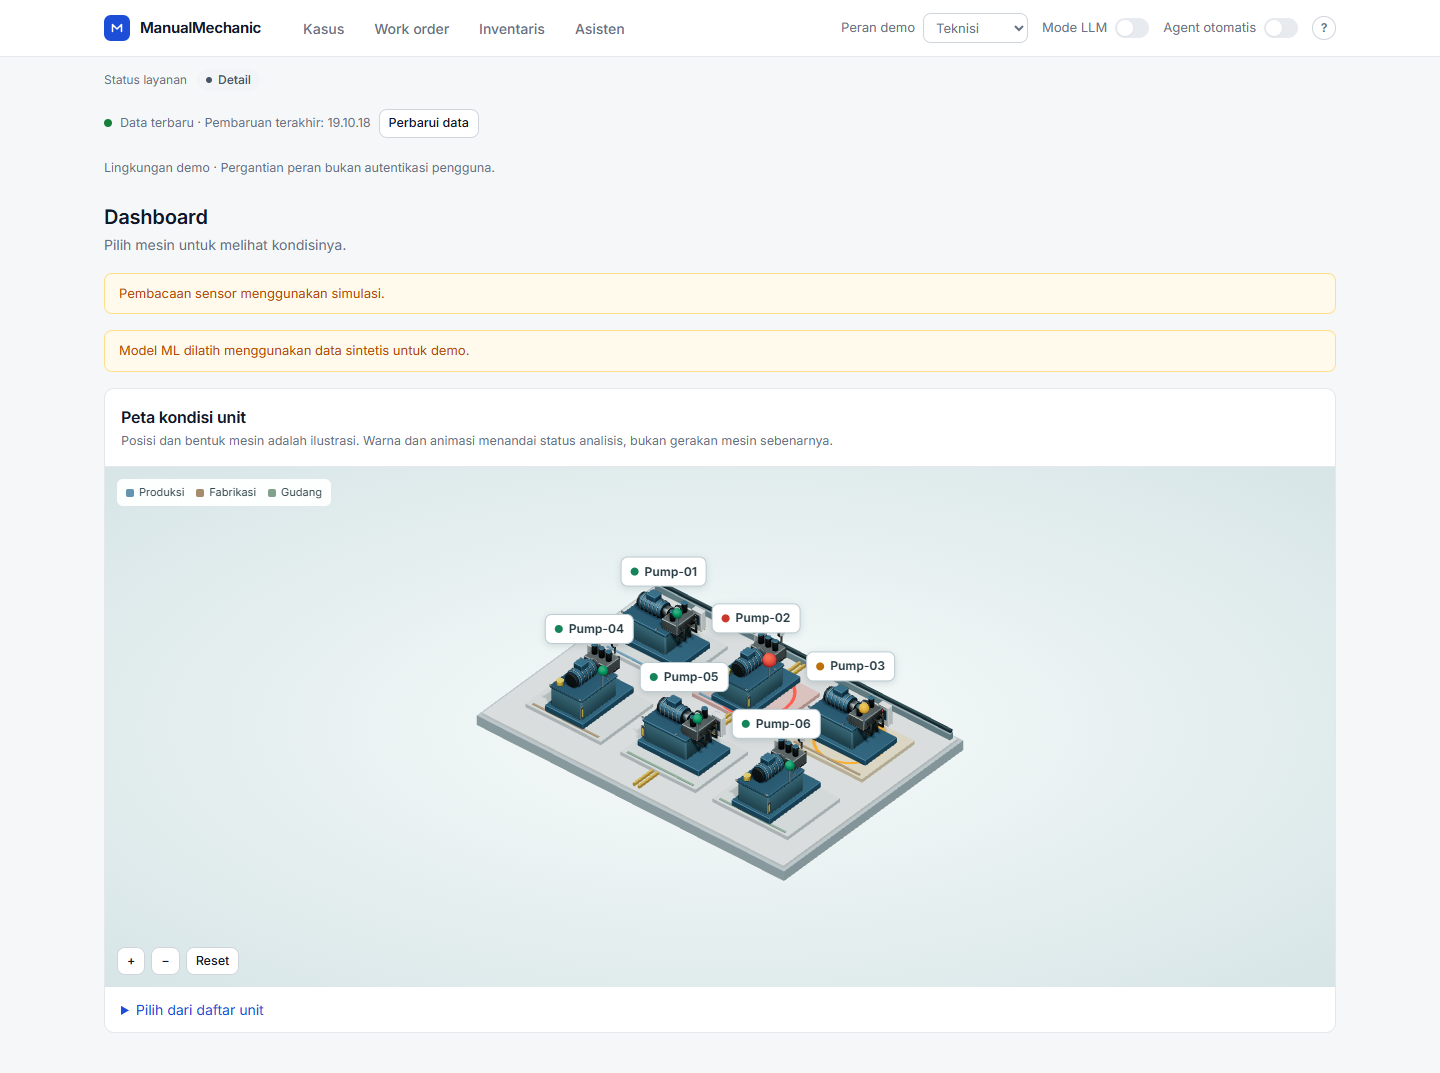
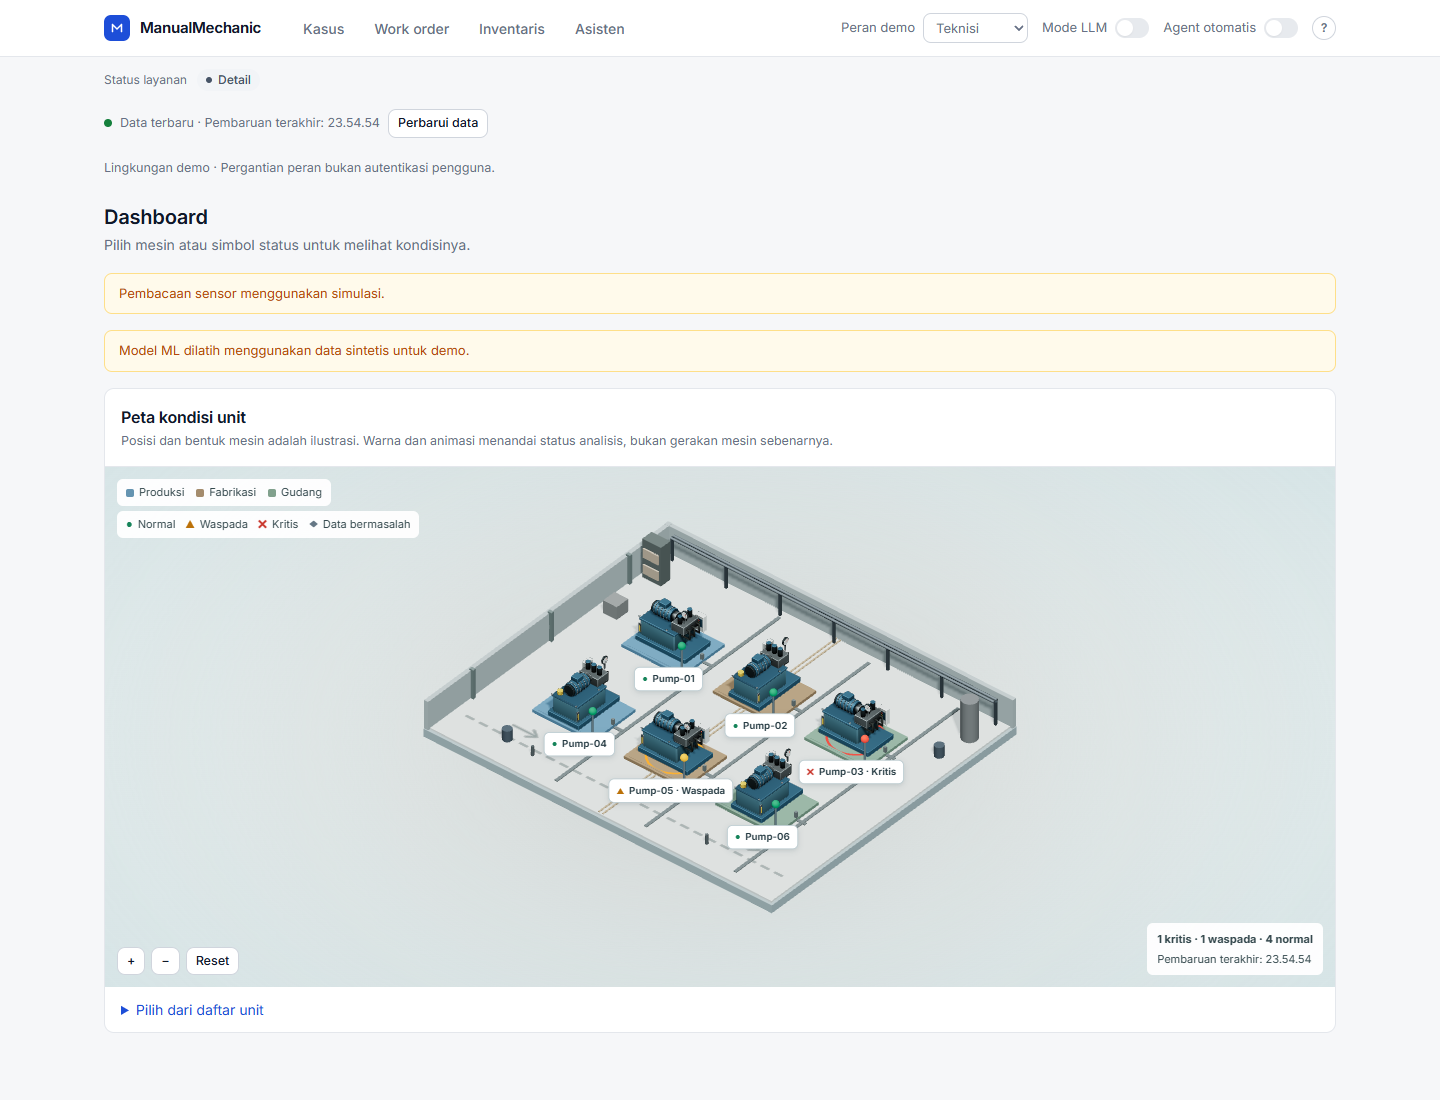
feat: polish 3d facility scene

diff --git a/frontend/src/components/FacilityScene.tsx b/frontend/src/components/FacilityScene.tsx
@@ -1,7 +1,7 @@
 import { Canvas, useFrame, useLoader, useThree } from '@react-three/fiber';
 import { ContactShadows, Environment, Html, Lightformer } from '@react-three/drei';
 import { useEffect, useLayoutEffect, useMemo, useRef, useState } from 'react';
-import { ACESFilmicToneMapping, Mesh, PCFSoftShadowMap, type MeshStandardMaterial } from 'three';
+import { ACESFilmicToneMapping, CanvasTexture, Mesh, PCFSoftShadowMap, type MeshStandardMaterial } from 'three';
 import { GLTFLoader } from 'three/examples/jsm/loaders/GLTFLoader.js';
 import { MeshoptDecoder } from 'three/examples/jsm/libs/meshopt_decoder.module.js';
 import type { Pump } from '../types';
@@ -81,6 +81,38 @@ function RefreshShadows({ layout }: { layout: string }) {
   return null;
 }
 
+function Apron({ size }: { size: number }) {
+  const alphaMap = useMemo(() => {
+    const canvas = document.createElement('canvas');
+    canvas.width = canvas.height = 256;
+    const ctx = canvas.getContext('2d');
+    if (ctx) {
+      const gradient = ctx.createRadialGradient(128, 128, 20, 128, 128, 128);
+      gradient.addColorStop(0, '#ffffff'); gradient.addColorStop(0.55, '#888888'); gradient.addColorStop(1, '#000000');
+      ctx.fillStyle = gradient; ctx.fillRect(0, 0, 256, 256);
+    }
+    return new CanvasTexture(canvas);
+  }, []);
+  useEffect(() => () => alphaMap.dispose(), [alphaMap]);
+  return <mesh rotation={[-Math.PI / 2, 0, 0]} position={[0, -0.34, 0]} receiveShadow><planeGeometry args={[size, size]} /><meshStandardMaterial color="#acaeaa" transparent opacity={0.55} alphaMap={alphaMap} depthWrite={false} roughness={1} /></mesh>;
+}
+
+function FloorMarkings({ width, depth }: { width: number; depth: number }) {
+  const map = useMemo(() => {
+    const canvas = document.createElement('canvas');
+    canvas.width = canvas.height = 512;
+    const ctx = canvas.getContext('2d');
+    if (ctx) {
+      ctx.strokeStyle = 'rgba(105, 119, 116, 0.65)'; ctx.lineWidth = 3;
+      ctx.setLineDash([12, 8]); ctx.beginPath(); ctx.moveTo(20, 460); ctx.lineTo(492, 460); ctx.stroke();
+      ctx.setLineDash([]); for (const x of [90, 422]) { ctx.beginPath(); ctx.moveTo(x - 18, 435); ctx.lineTo(x + 18, 435); ctx.moveTo(x + 7, 425); ctx.lineTo(x + 18, 435); ctx.lineTo(x + 7, 445); ctx.stroke(); }
+    }
+    return new CanvasTexture(canvas);
+  }, []);
+  useEffect(() => () => map.dispose(), [map]);
+  return <mesh rotation={[-Math.PI / 2, 0, 0]} position={[0, 0.043, 0]}><planeGeometry args={[width - 0.2, depth - 0.2]} /><meshBasicMaterial map={map} transparent depthWrite={false} /></mesh>;
+}
+
 function StatusRing({ state, selected, hovered, reducedMotion }: { state: Pump['status']['state']; selected: boolean; hovered: boolean; reducedMotion: boolean }) {
   const ring = useRef<Mesh>(null);
   const alert = state === 'waspada' || state === 'kritis';
@@ -99,7 +131,7 @@ function StatusRing({ state, selected, hovered, reducedMotion }: { state: Pump['
 
 function Machine({ pump, position, active, index, onSelect, reducedMotion }: { pump: Pump; position: [number, number]; active: boolean; index: number; onSelect: (id: string) => void; reducedMotion: boolean }) {
   const [hovered, setHovered] = useState(false);
-  const { gl } = useThree();
+  const { gl, size } = useThree();
   useEffect(() => () => { gl.domElement.style.cursor = ''; }, [gl]);
   return <group position={[position[0], 0, position[1]]} onClick={(event) => { event.stopPropagation(); onSelect(pump.id); }} onPointerOver={(event) => { event.stopPropagation(); setHovered(true); gl.domElement.style.cursor = 'pointer'; }} onPointerOut={() => { setHovered(false); gl.domElement.style.cursor = ''; }}>
     <mesh position={[0, 0.09, 0]} receiveShadow><boxGeometry args={[2.45, 0.12, 2.05]} /><meshStandardMaterial color={zoneColor(pump.location)} /></mesh>
@@ -109,7 +141,7 @@ function Machine({ pump, position, active, index, onSelect, reducedMotion }: { p
     <StatusRing state={pump.status.state} selected={active} hovered={hovered} reducedMotion={reducedMotion} />
     {active && <mesh position={[0, 0.16, 0]} rotation={[-Math.PI / 2, 0, 0]}><ringGeometry args={[1.02, 1.055, 48]} /><meshBasicMaterial color="#2365a5" /></mesh>}
     <mesh position={[1.02, 0.59, 0.80]}><cylinderGeometry args={[0.035, 0.035, 0.86, 8]} /><meshStandardMaterial color="#71858c" /></mesh>
-    <Html position={[0.8, 0.18, 1.25]} center zIndexRange={[5, 0]}><button type="button" className="unit-chip" data-status={pump.status.state} aria-pressed={active} aria-label={`${pump.id} · ${stateLabels[pump.status.state] ?? pump.status.state}`} onClick={(event) => { event.stopPropagation(); onSelect(pump.id); }}><span className="unit-chip-symbol" aria-hidden="true">{pump.status.state === 'normal' ? '●' : pump.status.state === 'waspada' ? '▲' : pump.status.state === 'kritis' ? '✖' : '◆'}</span><span className="unit-chip-id">{pump.id}</span></button></Html>
+    <Html position={[1.05, 0.18, 1.48]} center distanceFactor={size.width > 700 ? 0.025 : undefined} zIndexRange={[5, 0]}><button type="button" className="unit-chip" data-status={pump.status.state} aria-pressed={active} aria-label={`${pump.id} · ${stateLabels[pump.status.state] ?? pump.status.state}`} onClick={(event) => { event.stopPropagation(); onSelect(pump.id); }}><span className="unit-chip-symbol" aria-hidden="true">{pump.status.state === 'normal' ? '●' : pump.status.state === 'waspada' ? '▲' : pump.status.state === 'kritis' ? '✖' : '◆'}</span><span className="unit-chip-id">{pump.id}{pump.status.state !== 'normal' && <span className="unit-chip-status"> · {pump.status.state === 'sensor' ? 'Sensor' : pump.status.state === 'ml_error' ? 'ML error' : pump.status.state === 'tidak ada data' ? 'Tanpa data' : stateLabels[pump.status.state]}</span>}</span></button></Html>
   </group>;
 }
 
@@ -119,15 +151,15 @@ export default function FacilityScene({ pumps, selected, onSelect, zoom, reduced
   const position = (index: number): [number, number] => {
     const location = (pumps[index].location ?? '').toLowerCase();
     const offset = location.includes('produksi') ? -0.08 : location.includes('gudang') ? 0.08 : 0;
-    return [(index % columns - (columns - 1) / 2) * 3.6 + offset, (Math.floor(index / columns) - (rows - 1) / 2) * 3.6];
+    return [(index % columns - (columns - 1) / 2) * 3.6 + offset, (Math.floor(index / columns) - (rows - 1) / 2) * 4.3];
   };
   const selectedIndex = pumps.findIndex((pump) => pump.id === selected);
   const focus = selectedIndex < 0 ? [0, 0] as [number, number] : position(selectedIndex);
   const animated = !reducedMotion && pumps.some((pump) => pump.status.state === 'kritis' || pump.status.state === 'waspada');
   const layout = JSON.stringify(pumps.map((pump) => [pump.id, pump.location]));
   const slabW = columns * 3.6 + 3.2;
-  const slabD = rows * 3.6 + 3.2;
-  const padRects = pumps.map((_, index) => { const [x, z] = position(index); return { x, z: z + 0.3, w: 2.9, d: 3.1 }; });
+  const slabD = rows * 4.3 + 3.2;
+  const padRects = pumps.map((_, index) => { const [x, z] = position(index); return { x: x + 0.2, z: z + 0.45, w: 3.3, d: 3.5 }; });
   const keepOut = [...padRects, { x: 0, z: 0, w: 0.8, d: slabD }, { x: 0, z: -slabD / 2 + 0.35, w: slabW, d: 0.7 }];
   return <Canvas orthographic frameloop={animated ? 'always' : 'demand'} dpr={[1, 1.5]} shadows={{ type: PCFSoftShadowMap }} camera={{ position: [10, 12, 12], zoom: 50, near: 0.1, far: 100 }} gl={{ antialias: true, toneMapping: ACESFilmicToneMapping, toneMappingExposure: 1.15 }} onCreated={({ gl }) => { gl.shadowMap.autoUpdate = false; gl.shadowMap.needsUpdate = true; }}>
     <Camera focus={focus} zoom={zoom} width={slabW} depth={slabD} reducedMotion={reducedMotion} />
@@ -135,12 +167,14 @@ export default function FacilityScene({ pumps, selected, onSelect, zoom, reduced
     <hemisphereLight args={['#e4eef2', '#9aabae', 0.65]} />
     <directionalLight position={[8, 12, 6]} intensity={1.7} castShadow shadow-mapSize-width={1024} shadow-mapSize-height={1024} shadow-camera-left={-slabW} shadow-camera-right={slabW} shadow-camera-top={slabD} shadow-camera-bottom={-slabD} shadow-bias={-0.0004} shadow-normalBias={0.02} />
     <Environment resolution={128} frames={1}><Lightformer form="rect" intensity={2} position={[0, 6, 4]} scale={[10, 4, 1]} /><Lightformer form="rect" intensity={0.8} position={[-6, 3, -4]} scale={[8, 3, 1]} /></Environment>
-    <mesh rotation={[-Math.PI / 2, 0, 0]} position={[0, -0.34, 0]} receiveShadow><planeGeometry args={[slabW * 3, slabD * 3]} /><meshStandardMaterial color="#c1d0d0" /></mesh>
+    <Apron size={Math.hypot(slabW, slabD) * 3} />
     <mesh position={[0, -0.18, 0]} receiveShadow><boxGeometry args={[slabW, 0.3, slabD]} /><meshStandardMaterial color="#aabec2" /></mesh>
     <mesh position={[0, 0, 0]} receiveShadow><boxGeometry args={[slabW - 0.2, 0.08, slabD - 0.2]} /><meshStandardMaterial color="#e6eeec" /></mesh>
+    <FloorMarkings width={slabW} depth={slabD} />
     {[-0.08, 0.08].map((x) => <mesh key={x} position={[x, 0.05, 0]}><boxGeometry args={[0.06, 0.02, slabD - 0.3]} /><meshStandardMaterial color="#b5a283" /></mesh>)}
     <mesh position={[0, 0.55, -slabD / 2 + 0.1]} receiveShadow><boxGeometry args={[slabW, 1.1, 0.16]} /><meshStandardMaterial color="#b3c1c2" /></mesh>
     <mesh position={[-slabW / 2 + 0.1, 0.55, 0]} receiveShadow><boxGeometry args={[0.16, 1.1, slabD]} /><meshStandardMaterial color="#b3c1c2" /></mesh>
+    {[-0.32, 0, 0.32].map((part) => <mesh key={part} position={[-slabW / 2 + 0.2, 0.58, part * slabD]}><boxGeometry args={[0.16, 1.16, 0.12]} /><meshStandardMaterial color="#839493" metalness={0.2} /></mesh>)}
     <group position={[0, 0.04, -slabD / 2 + 0.4]}><PipeRack length={slabW - 1} /></group>
     {Array.from({ length: columns }, (_, index) => <mesh key={index} position={[(index - (columns - 1) / 2) * 3.6 + 1.5, 0.055, 0]} receiveShadow><boxGeometry args={[0.12, 0.03, slabD - 1]} /><meshStandardMaterial color="#889596" metalness={0.4} /></mesh>)}
     {pumps.map((pump, index) => { const [x, z] = position(index); return <group key={pump.id} position={[x + 1.35, 0, z]}><mesh position={[0, 0.055, 0]}><boxGeometry args={[0.42, 0.03, 0.12]} /><meshStandardMaterial color="#889596" metalness={0.4} /></mesh><mesh position={[-0.18, 0.2, 0]}><boxGeometry args={[0.09, 0.3, 0.09]} /><meshStandardMaterial color="#889596" metalness={0.4} /></mesh></group>; })}

diff --git a/frontend/src/components/FactoryProps.tsx b/frontend/src/components/FactoryProps.tsx
@@ -1,34 +1,49 @@
+import { Instance, Instances } from '@react-three/drei';
+import { useThree } from '@react-three/fiber';
+import { useEffect } from 'react';
+
 type Rect = { x: number; z: number; w: number; d: number };
-type Kind = 'pallet' | 'drum' | 'crate' | 'bollard';
+type Kind = 'pallet' | 'drum' | 'crate' | 'bollard' | 'shelf' | 'tank';
 type Placement = { kind: Kind; x: number; z: number; size: number };
 
 // Positions are deterministic so polling never makes decoration move.
 export function factoryPlacements(width: number, depth: number, keepOut: readonly Rect[]): Placement[] {
   const candidates: { kind: Kind; u: number; v: number; size: number }[] = [
+    { kind: 'shelf', u: -0.45, v: -0.38, size: 0.45 }, { kind: 'tank', u: 0.45, v: -0.38, size: 0.38 },
     { kind: 'pallet', u: -0.44, v: -0.37, size: 0.45 }, { kind: 'crate', u: -0.44, v: -0.2, size: 0.35 },
     { kind: 'drum', u: 0.44, v: -0.36, size: 0.2 }, { kind: 'drum', u: 0.44, v: -0.27, size: 0.2 },
-    { kind: 'crate', u: 0.44, v: 0.29, size: 0.35 }, { kind: 'pallet', u: -0.44, v: 0.33, size: 0.45 },
-    { kind: 'bollard', u: -0.25, v: 0.44, size: 0.1 }, { kind: 'bollard', u: 0.25, v: 0.44, size: 0.1 },
-    { kind: 'crate', u: 0.32, v: 0.44, size: 0.35 }, { kind: 'drum', u: -0.33, v: 0.44, size: 0.2 },
+    { kind: 'crate', u: 0.40, v: 0.29, size: 0.35 }, { kind: 'pallet', u: -0.40, v: 0.33, size: 0.45 },
+    { kind: 'bollard', u: -0.25, v: 0.41, size: 0.1 }, { kind: 'bollard', u: 0.25, v: 0.41, size: 0.1 },
+    { kind: 'crate', u: 0.32, v: 0.40, size: 0.35 }, { kind: 'drum', u: -0.33, v: 0.40, size: 0.2 },
   ];
   return candidates.map(({ kind, u, v, size }) => ({ kind, x: u * width, z: v * depth, size }))
-    .filter(({ x, z, size }) => Math.abs(x) + size <= width / 2 && Math.abs(z) + size <= depth / 2 &&
-      !keepOut.some((r) => Math.abs(x - r.x) < r.w / 2 + size + 0.1 && Math.abs(z - r.z) < r.d / 2 + size + 0.1));
+    .reduce<Placement[]>((placed, p) => {
+      const overlaps = placed.some((other) => Math.abs(p.x - other.x) < p.size + other.size && Math.abs(p.z - other.z) < p.size + other.size);
+      if (!overlaps && Math.abs(p.x) + p.size <= width / 2 && Math.abs(p.z) + p.size <= depth / 2 &&
+        !keepOut.some((r) => Math.abs(p.x - r.x) < r.w / 2 + p.size + 0.1 && Math.abs(p.z - r.z) < r.d / 2 + p.size + 0.1)) placed.push(p);
+      return placed;
+    }, []);
 }
-
 export function FactoryProps({ width, depth, keepOut }: { width: number; depth: number; keepOut: readonly Rect[] }) {
-  return <group position={[0, 0.04, 0]}>{factoryPlacements(width, depth, keepOut).map((p, i) => <group key={i} position={[p.x, 0, p.z]}>
+  const placed = factoryPlacements(width, depth, keepOut);
+  const { gl, invalidate } = useThree();
+  const version = JSON.stringify(placed);
+  useEffect(() => { gl.shadowMap.needsUpdate = true; invalidate(); }, [gl, invalidate, version]);
+  return <group position={[0, 0.04, 0]}>
+    <Instances castShadow receiveShadow><cylinderGeometry args={[0.17, 0.17, 0.42, 16]} /><meshStandardMaterial color="#687985" roughness={0.55} metalness={0.35} />{placed.filter((p) => p.kind === 'drum').map((p, i) => <Instance key={i} position={[p.x, 0.21, p.z]} />)}</Instances>
+    <Instances castShadow receiveShadow><cylinderGeometry args={[0.05, 0.06, 0.36, 10]} /><meshStandardMaterial color="#6b7679" metalness={0.3} />{placed.filter((p) => p.kind === 'bollard').map((p, i) => <Instance key={i} position={[p.x, 0.18, p.z]} />)}</Instances>
+    {placed.filter((p) => p.kind !== 'drum' && p.kind !== 'bollard').map((p, i) => <group key={i} position={[p.x, 0, p.z]}>
     {p.kind === 'pallet' && <><mesh position={[0, 0.06, 0]} castShadow receiveShadow><boxGeometry args={[0.8, 0.12, 0.6]} /><meshStandardMaterial color="#a98f78" roughness={0.9} /></mesh><mesh position={[0, 0.34, 0]} castShadow><boxGeometry args={[0.68, 0.45, 0.48]} /><meshStandardMaterial color="#c1b3a0" roughness={0.9} /></mesh></>}
-    {p.kind === 'drum' && <mesh position={[0, 0.21, 0]} castShadow receiveShadow><cylinderGeometry args={[0.17, 0.17, 0.42, 16]} /><meshStandardMaterial color="#687985" roughness={0.55} metalness={0.35} /></mesh>}
     {p.kind === 'crate' && <mesh position={[0, 0.25, 0]} castShadow receiveShadow><boxGeometry args={[0.55, 0.5, 0.55]} /><meshStandardMaterial color="#8d9291" roughness={0.8} /></mesh>}
-    {p.kind === 'bollard' && <mesh position={[0, 0.18, 0]} castShadow><cylinderGeometry args={[0.05, 0.06, 0.36, 10]} /><meshStandardMaterial color="#6b7679" metalness={0.3} /></mesh>}
+    {p.kind === 'shelf' && <><mesh position={[0, 0.75, 0]} castShadow><boxGeometry args={[0.75, 1.5, 0.45]} /><meshStandardMaterial color="#778381" metalness={0.3} /></mesh>{[0.38, 1].map((y) => <mesh key={y} position={[0, y, 0.24]}><boxGeometry args={[0.62, 0.35, 0.08]} /><meshStandardMaterial color="#c1b3a0" /></mesh>)}</>}
+    {p.kind === 'tank' && <mesh position={[0, 0.75, 0]} castShadow><cylinderGeometry args={[0.29, 0.29, 1.5, 16]} /><meshStandardMaterial color="#a8afb0" metalness={0.45} roughness={0.5} /></mesh>}
   </group>)}</group>;
 }
 
 export function PipeRack({ length }: { length: number }) {
   const posts = Math.max(2, Math.floor(length / 2) + 1);
   return <group>
-    {Array.from({ length: posts }, (_, i) => <mesh key={i} position={[-length / 2 + i * length / (posts - 1), 0.45, 0]} castShadow><boxGeometry args={[0.08, 0.9, 0.08]} /><meshStandardMaterial color="#56636a" metalness={0.4} /></mesh>)}
+    <Instances castShadow><boxGeometry args={[0.08, 0.9, 0.08]} /><meshStandardMaterial color="#56636a" metalness={0.4} />{Array.from({ length: posts }, (_, i) => <Instance key={i} position={[-length / 2 + i * length / (posts - 1), 0.45, 0]} />)}</Instances>
     {[-0.07, 0.07].map((z) => <mesh key={z} position={[0, 0.92, z]} rotation={[0, 0, Math.PI / 2]} castShadow><cylinderGeometry args={[0.045, 0.045, length, 10]} /><meshStandardMaterial color="#8e9ca3" metalness={0.6} roughness={0.4} /></mesh>)}
   </group>;
 }

diff --git a/frontend/test/factory-props.test.tsx b/frontend/test/factory-props.test.tsx
@@ -6,9 +6,10 @@ it('keeps static decoration inside the slab and clear of pads and aisles', () =>
   const placements = factoryPlacements(14, 10.4, keepOut);
   expect(placements.length).toBeGreaterThan(0);
   expect(factoryPlacements(14, 10.4, keepOut)).toEqual(placements);
-  for (const p of placements) {
+  for (const [index, p] of placements.entries()) {
     expect(Math.abs(p.x) + p.size).toBeLessThanOrEqual(7);
     expect(Math.abs(p.z) + p.size).toBeLessThanOrEqual(5.2);
     for (const r of keepOut) expect(Math.abs(p.x - r.x) >= r.w / 2 + p.size + 0.1 || Math.abs(p.z - r.z) >= r.d / 2 + p.size + 0.1).toBe(true);
+    for (const other of placements.slice(index + 1)) expect(Math.abs(p.x - other.x) >= p.size + other.size || Math.abs(p.z - other.z) >= p.size + other.size).toBe(true);
   }
 });

diff --git a/docs/TECHNICAL.md b/docs/TECHNICAL.md
@@ -66,7 +66,7 @@ Ini adalah polling, bukan streaming WebSocket. Timer simulator default tiga deti
 
 Brand ManualMechanic membawa pengguna kembali ke dashboard dan membersihkan pilihan mesin. Pilihan mesin pada dashboard normal disimpan di state halaman, bukan URL khusus setiap klik.
 
-`FacilityScene` membuat objek untuk setiap ID yang dikirim backend. Tata letak berupa grid ilustratif berdasarkan jumlah unit; kamera menyesuaikan skala jumlah baris/kolom. Semua unit memakai model hidrolik yang sama, bukan model yang dipilih berdasarkan field `model`.
+`FacilityScene` membuat satu objek untuk setiap ID yang dikirim backend. Landasan dan zona disusun secara ilustratif berdasarkan jumlah unit; dinding rendah, rak, tangki, palet, drum, jalur kabel, dan marka merupakan dekorasi statis, bukan mesin tambahan atau denah fisik. Posisi dekorasi disaring agar tidak bertabrakan dengan landasan dan jalur utama. Kamera menyesuaikan skala terhadap jumlah unit dan ukuran kanvas. Semua unit memakai model hidrolik yang sama, bukan model yang dipilih berdasarkan field `model`.
 
 - Lampu hijau: `normal`.
 - Lampu kuning dan denyut: `waspada`.
@@ -77,7 +77,11 @@ Status kartu teks dapat memakai badge warna berbeda untuk menegaskan kegagalan l
 
 Model dimuat dari `/models/hydraulic-unit.glb` melalui GLTFLoader dan di-clone untuk tiap unit. Decoder meshopt disertakan dalam bundle aplikasi; render tidak perlu mengunduh decoder atau HDR dari CDN. Setiap mesin mempunyai label HTML yang dapat difokuskan dan diklik, sementara ring serta lampu mengikuti status dan pilihan unit. Error boundary menyediakan pesan fallback; pengguna dapat membuka daftar unit. Aset dan modul render dimuat ketika peta dipakai.
 
+Ringkasan menampilkan jumlah kondisi dari `overview.pumps`. Waktu pembaruan berasal dari `dataUpdatedAt` query overview, yaitu saat browser terakhir berhasil menerima data, bukan waktu pengukuran sensor. Status offline dan kegagalan polling ditampilkan oleh `RequestState`.
+
 Pencahayaan menggunakan ACES, hemisphere light, shadow map statis, contact shadow satu frame, dan environment yang dibuat secara lokal dengan Lightformer. Shadow diperbarui ketika tata letak/objek berubah. Garis warna pada landasan mengikuti kategori lokasi Produksi, Fabrikasi, atau Gudang; posisinya tetap ilustratif. Kamera bergerak halus ke pilihan dan menghormati reduced motion. Resolusi shadow 1024 dan contact shadow 512 dipilih untuk mengurangi biaya dibanding pengaturan resolusi penuh; performa perangkat nyata tetap perlu diuji.
+
+Drum, bollard, dan tiang rak pipa memakai instancing; marka lantai menggunakan satu tekstur kanvas. Dalam satu pemeriksaan lokal enam unit dengan Chrome headless dan SwiftShader pada server pengembangan, penghitung WebGL mencatat 267 pemanggilan draw selama satu klik zoom sebelum perubahan dan 253 sesudahnya; waktu dari navigasi hingga label pertama sekitar 1.009 ms dan 967 ms. Ini pengukuran terbatas yang mencakup seluruh pass selama interaksi, bukan draw call per frame atau tolok ukur perangkat fisik. FPS, memori, dan waktu muat pada ponsel nyata masih perlu diukur.
 
 ### Mengubah model Blender
 
